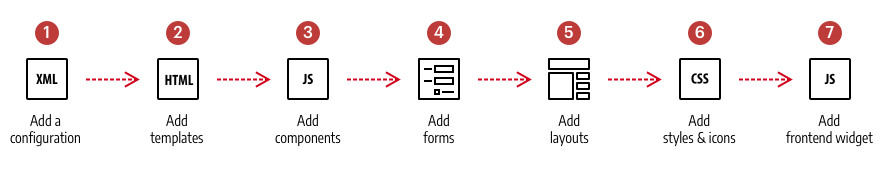
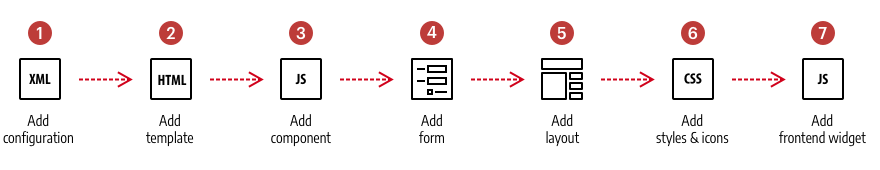
MC-4272: Update content type docs
Added images for content type creation

diff --git a/docs/how-to/how-to-develop-new-content-type.md b/docs/how-to/how-to-develop-new-content-type.md
@@ -2,27 +2,26 @@
 
 <!-- {% raw %} -->
 
-Out of the box, Page Builder comes with several content types (controls) that you can drag onto the stage to build your storefront pages, as shown below. In this topic, you will learn how to create your own content types for use within Page Builder.
+Out of the box, Page Builder comes with several content types (controls) that you can drag onto the stage to build your storefront pages, as shown below. In this topic, you will learn how to create your own content type for use within Page Builder.
 
 ![Page Builder Content Types](../images/panel-horizontal.png)
 
 ## Prerequisites
 
-Content types are implemented as modules. Therefore, this topic assumes you have already created a basic Magento module structure in which to add your content type files. **[Add a link to devdocs module topic]**  
+Page Builder creates content types from modules. So this topic assumes you have a basic module structure in which to add your content type files.
+
+![](../images/module-minimum-structure.png)
 
 ## Overview
 
-The steps for creating a Page Builder content type are briefly illustrated and outlined here. The remainder of this topic describes these steps in detail.
+The steps for creating a Page Builder content type are briefly outlined here. The remainder of this topic describes these steps in detail.
 
 ![Creating Custom Content Types](../images/content-type-overview.png)
 
-1. Add a configuration: 
-2. Add templates: 
-3. Add components:
-4. Add forms:
-5. Add layouts:
-6. Add styles and icons:
-7. Add a frontend widget: 
+
+
+![Before and after content type](../images/content-type-files.png)
+
 
 
 ## Step 1: Add a configuration
@@ -71,6 +70,8 @@ To add configuration for a new content type, create a file under the following l
 
 In this example, content type has only one element in the template.
 
+## Step 2: Add a template
+
 Let's create templates specified in the configuration. 
 
 Optional: For template knockout bindings, you can use the original data-bind syntax, or utilize Magento custom Knockout.js bindings as seen in the template snippets below. `http://devdocs.magento.com/guides/v2.2/ui_comp_guide/concepts/knockout-bindings.html`
@@ -91,7 +92,47 @@ And master template `app/code/Vendor/ModuleName/view/adminhtml/web/template/cont
 <div attr="data.main.attributes" ko-style="data.main.style" css="data.main.css" html="data.main.html"></div>
 ```
 
-In the `simple.xml` above we defined border attributes and form for component. Let's create form `Vendor/ModuleName/view/adminhtml/ui_component/modulename_simple_form.xml` which enables the user to modify these attributes from the admin.
+In the `simple.xml` above we defined border attributes and form for component. 
+
+## Step 3: Add a component
+
+If your content type has custom preview logic, you need to specify `preview_component`, otherwise the default one `Magento_PageBuilder/js/content-type/preview` will be used.
+
+If your content type can have other components as children, you need to extend `Magento_PageBuilder/js/content-type/preview-collection` component. Otherwice you need to extend `Magento_PageBuilder/js/content-type/preview`.
+
+In the preview component you can add custom logic that will be available in the template. You can also do modifications to observables used in preview template if you override `afterObservablesUpdated` method. 
+
+Let's add a button in the preview that would display `Hello World` on click.
+
+```js
+define(["Magento_PageBuilder/js/content-type/preview"], function (Preview) {
+    var Simple = function() {
+        Preview.apply(this, arguments);
+    };
+
+    Simple.prototype = Object.create(Preview.prototype);
+    Simple.prototype.constructor = Simple;
+
+    /**
+     * Alert Hello World
+     */
+    Simple.prototype.helloWorld = function() {
+        alert("Hello World");
+    };
+
+    return Simple;
+});
+```
+
+
+
+## Step 4: Add an icon
+
+
+
+## Step 5: Add a form
+
+Let's create form `Vendor/ModuleName/view/adminhtml/ui_component/modulename_simple_form.xml` which enables the user to modify these attributes from the admin.
 
 ``` XML
 <form xmlns:xsi="http://www.w3.org/2001/XMLSchema-instance" xsi:noNamespaceSchemaLocation="urn:magento:module:Magento_Ui:etc/ui_configuration.xsd" extends="pagebuilder_base_form">
@@ -173,6 +214,8 @@ Every form should have default appearance to allow other modules to add more app
 
 Attributes that we want to edit as part of the advanced section are defined in `pagebuilder_base_form`, so we can just extend it.
 
+## Step 6: Add a layout
+
 And to allow this form to be loaded in PageBuilder, let's create layout `Vendor/ModuleName/view/adminhtml/layout/pagebuildercustom_simple_form.xml`.
 
 ``` XML
@@ -186,35 +229,19 @@ And to allow this form to be loaded in PageBuilder, let's create layout `Vendor/
 </page>
 ```
 
+
+
+## Step 7: Add a frontend widget
+
+ 
+
+
+
+
+
+
+
 ## Preview, PreviewCollection, Content, and ContentCollection
-
-If your content type has custom preview logic, you need to specify `preview_component`, otherwise the default one `Magento_PageBuilder/js/content-type/preview` will be used.
-
-If your content type can have other components as children, you need to extend `Magento_PageBuilder/js/content-type/preview-collection` component. Otherwice you need to extend `Magento_PageBuilder/js/content-type/preview`.
-
-In the preview component you can add custom logic that will be available in the template. You can also do modifications to observables used in preview template if you override `afterObservablesUpdated` method. 
-
-Let's add a button in the preview that would display `Hello World` on click.
-
-``` js
-define(["Magento_PageBuilder/js/content-type/preview"], function (Preview) {
-    var Simple = function() {
-        Preview.apply(this, arguments);
-    };
-
-    Simple.prototype = Object.create(Preview.prototype);
-    Simple.prototype.constructor = Simple;
-
-    /**
-     * Alert Hello World
-     */
-    Simple.prototype.helloWorld = function() {
-        alert("Hello World");
-    };
-
-    return Simple;
-});
-```
 
 And the last part is to add button to a template.
 

diff --git a/docs/configurations/panel-configurations.md b/docs/configurations/panel-configurations.md
@@ -17,7 +17,7 @@ You can customize the panel menu in four ways:
 
 To rename the panel groups, you need to override the defaults configured in the Page Builder `group.xml` file as follows:
 
-1. Add a file called `group.xml` to your module's `view/adminhtml/pagebuilder/` directory:
+1. Add a file named `group.xml` to your module's `view/adminhtml/pagebuilder/` directory:
 
     ![Custom group file](../images/custom-group-file.png)
 
